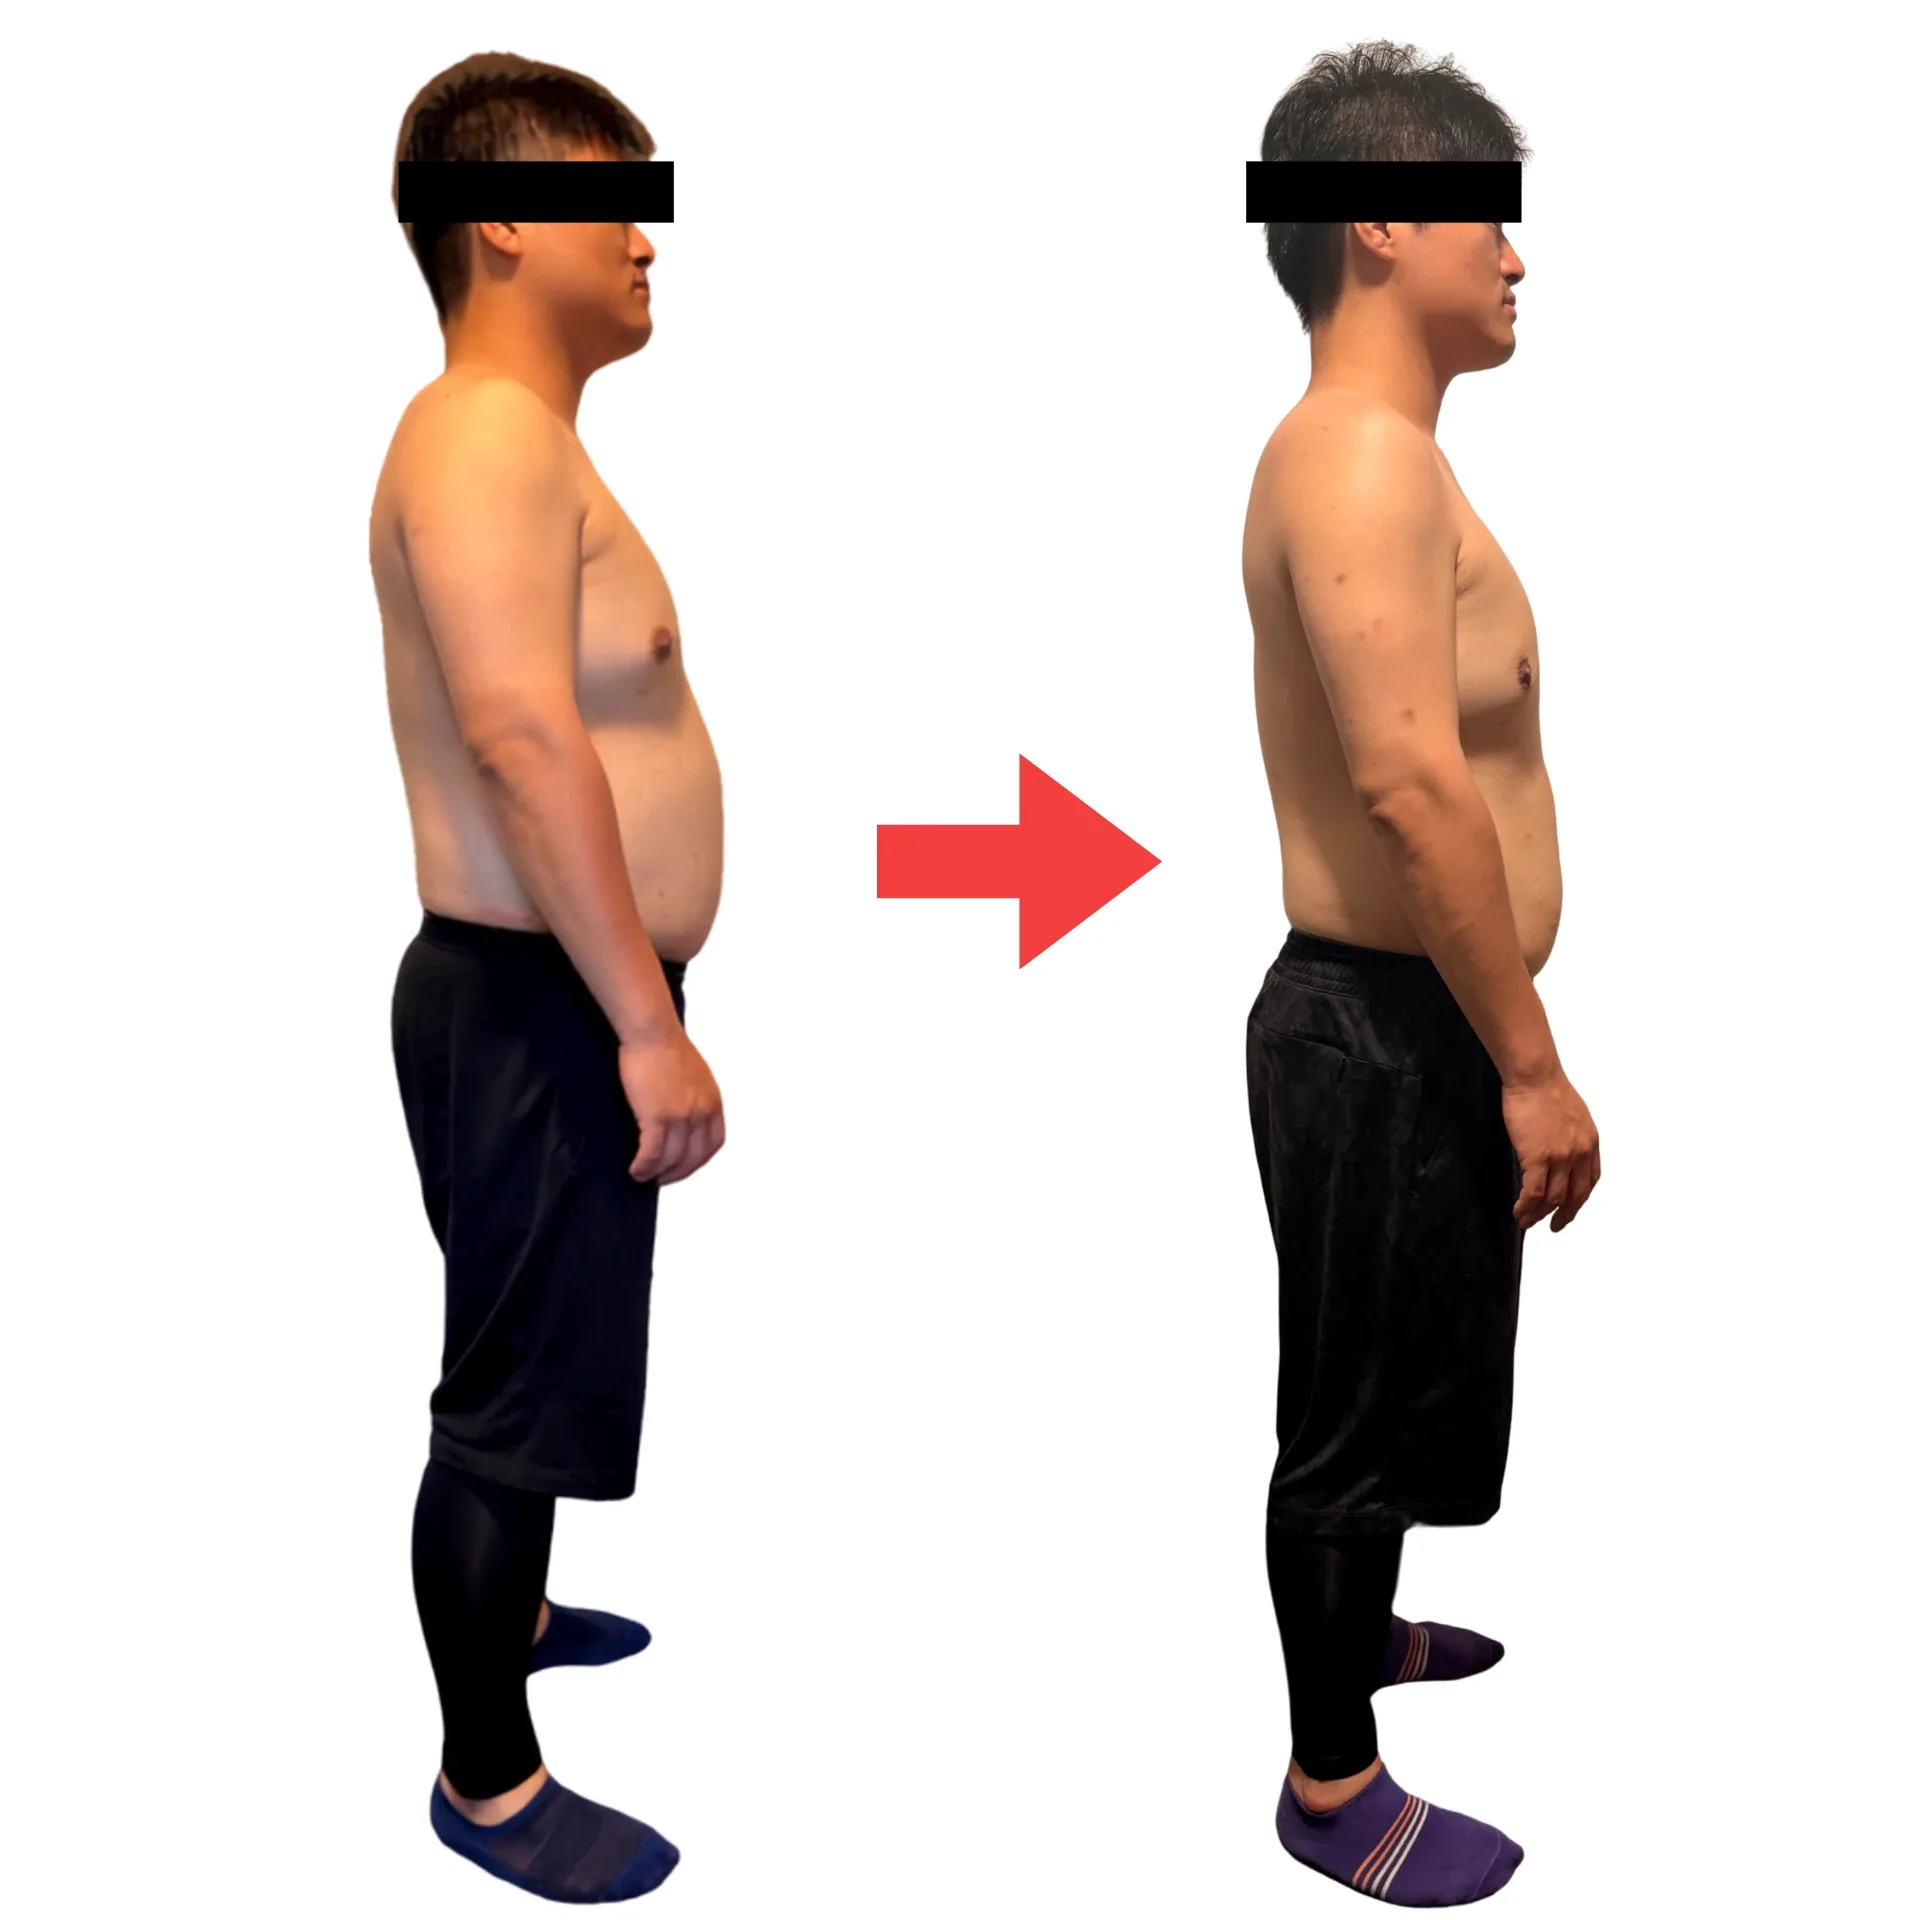
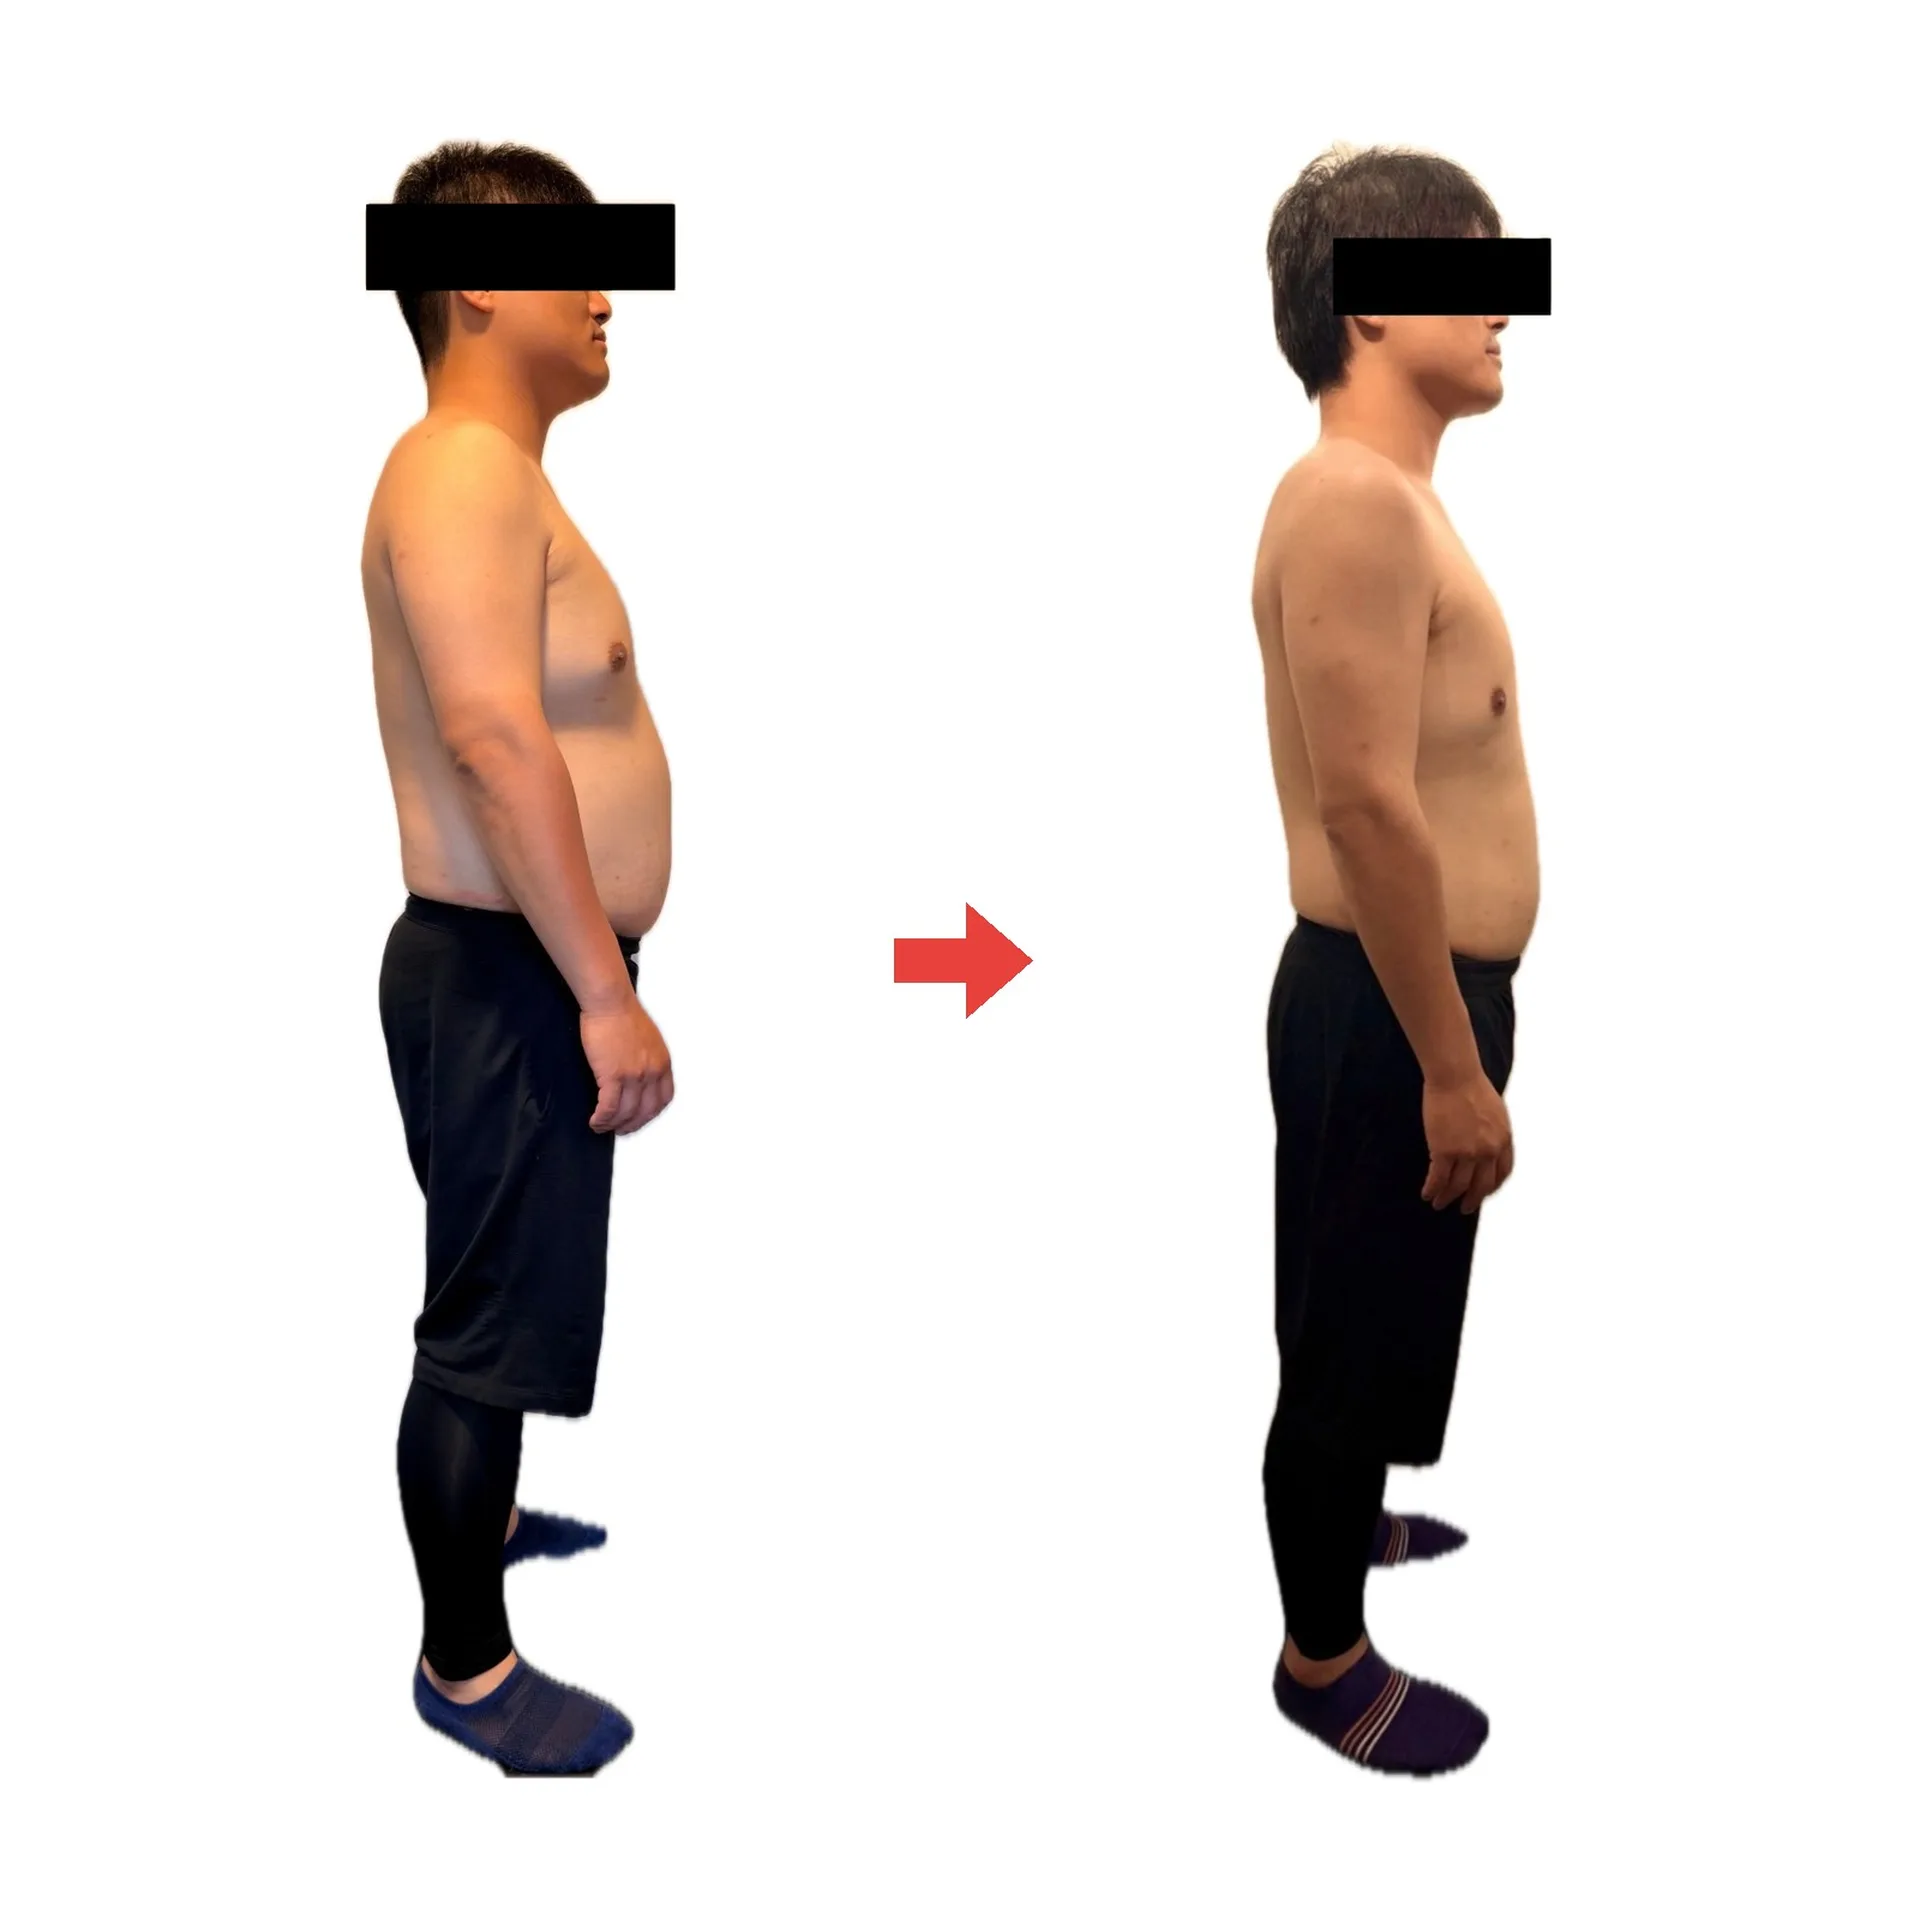
ダイエットの事例を更新（3ヶ月で体重−13kg・体脂肪率−10%、写真を差し替え）

Changed region(s): [[0.625, 0.0, 0.8438, 1.0], [0.1875, 0.0, 0.375, 1.0], [0.4375, 0.375, 0.625, 0.5312]]

diff --git a/lp-a.html b/lp-a.html
@@ -183,10 +183,10 @@
 
     <div class="grid grid--3">
       <figure class="ba" data-reveal>
-        <div class="ba__media"><img src="assets/img/ba-diet-30s.webp" alt="30代男性のビフォーアフター：3ヶ月で体重13kg減、体脂肪率9%減" loading="lazy" width="1600" height="1600"></div>
+        <div class="ba__media"><img src="assets/img/ba-diet-30s.webp?v=20261121a" alt="30代男性のビフォーアフター：3ヶ月で体重13kg減、体脂肪率10%減" loading="lazy" width="1600" height="1600"></div>
         <figcaption class="ba__body">
           <p class="ba__tag">ダイエット</p>
-          <h3 class="ba__ttl"><span class="nw">3ヶ月で <span class="ba__num">−13</span>kg</span><span class="nw">／体脂肪率 <span class="ba__num">−9</span>%</span></h3>
+          <h3 class="ba__ttl"><span class="nw">3ヶ月で <span class="ba__num">−13</span>kg</span><span class="nw">／体脂肪率 <span class="ba__num">−10</span>%</span></h3>
           <p class="ba__meta">30代 男性 ／ 期間 3ヶ月</p>
           <p class="ba__txt">食事を極端に削るのではなく、まず身体を整えて「動ける状態」をつくることから。無理なく続けられる設計にしたことが、この変化につながっています。</p>
         </figcaption>

diff --git a/index.html b/index.html
@@ -324,11 +324,11 @@
         </figcaption>
       </figure>
       <figure class="ba">
-        <img src="assets/img/ba-body-30s.webp" alt="30代男性のビフォーアフター：1ヶ月で身体つきが変化" loading="lazy" width="1920" height="1920">
+        <img src="assets/img/ba-body-30s.webp?v=20261121a" alt="30代男性のビフォーアフター：3ヶ月で体重13kg減、体脂肪率10%減" loading="lazy" width="1920" height="1920">
         <figcaption class="ba__b">
           <p class="ba__tag">身体の変化</p>
-          <h3 class="ba__n">1ヶ月で、身体のラインが変わる</h3>
-          <p class="ba__m">30代 男性 ／ 期間 1ヶ月</p>
+          <h3 class="ba__n">3ヶ月で、体重−13kg・体脂肪率−10%</h3>
+          <p class="ba__m">30代 男性 ／ 期間 3ヶ月</p>
           <p class="ba__t">食事を極端に削るのではなく、まず身体を整えて「動ける状態」をつくることから始めました。無理なく続けられる設計にしたことが、この変化につながっています。</p>
         </figcaption>
       </figure>

diff --git a/lp2.html b/lp2.html
@@ -370,11 +370,11 @@
         </figcaption>
       </figure>
       <figure class="ba">
-        <img src="assets/img/ba-body-30s.webp" alt="30代男性のビフォーアフター：1ヶ月で身体つきが変化" loading="lazy" width="1920" height="1920">
+        <img src="assets/img/ba-body-30s.webp?v=20261121a" alt="30代男性のビフォーアフター：3ヶ月で体重13kg減、体脂肪率10%減" loading="lazy" width="1920" height="1920">
         <figcaption class="ba__b">
           <p class="ba__tag">身体の変化</p>
-          <h3 class="ba__n">1ヶ月で、身体のラインが変わる</h3>
-          <p class="ba__m">30代 男性 ／ 期間 1ヶ月</p>
+          <h3 class="ba__n">3ヶ月で、体重−13kg・体脂肪率−10%</h3>
+          <p class="ba__m">30代 男性 ／ 期間 3ヶ月</p>
           <p class="ba__t">食事を極端に削るのではなく、まず身体を整えて「動ける状態」をつくることから始めました。無理なく続けられる設計にしたことが、この変化につながっています。</p>
         </figcaption>
       </figure>
